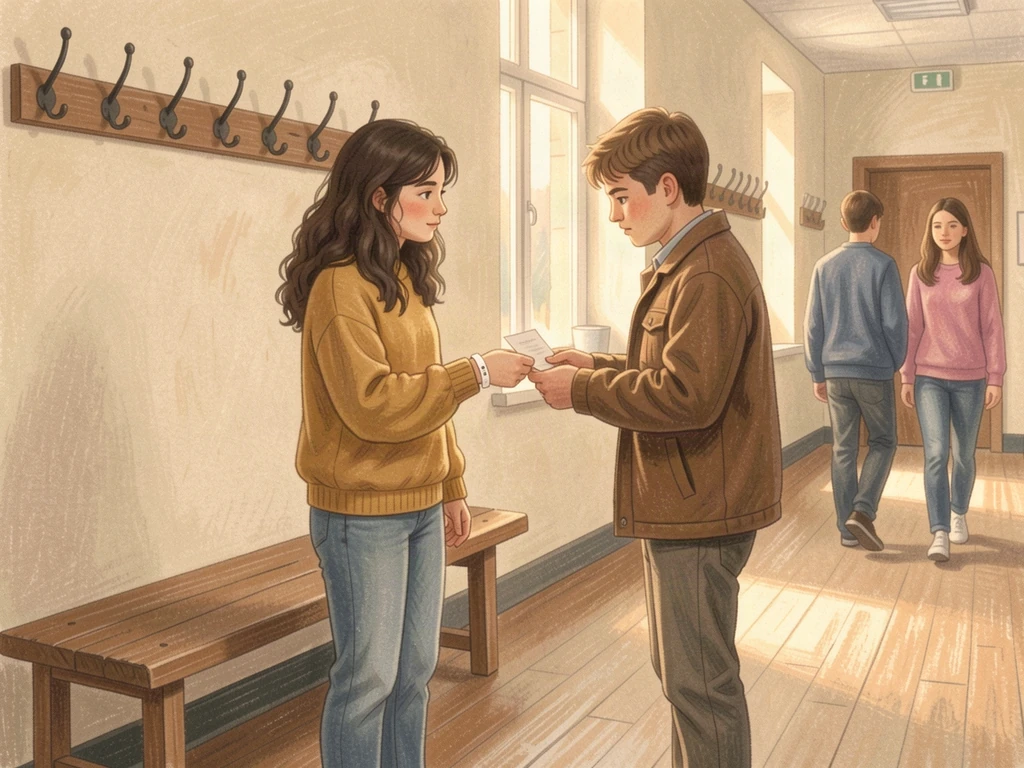
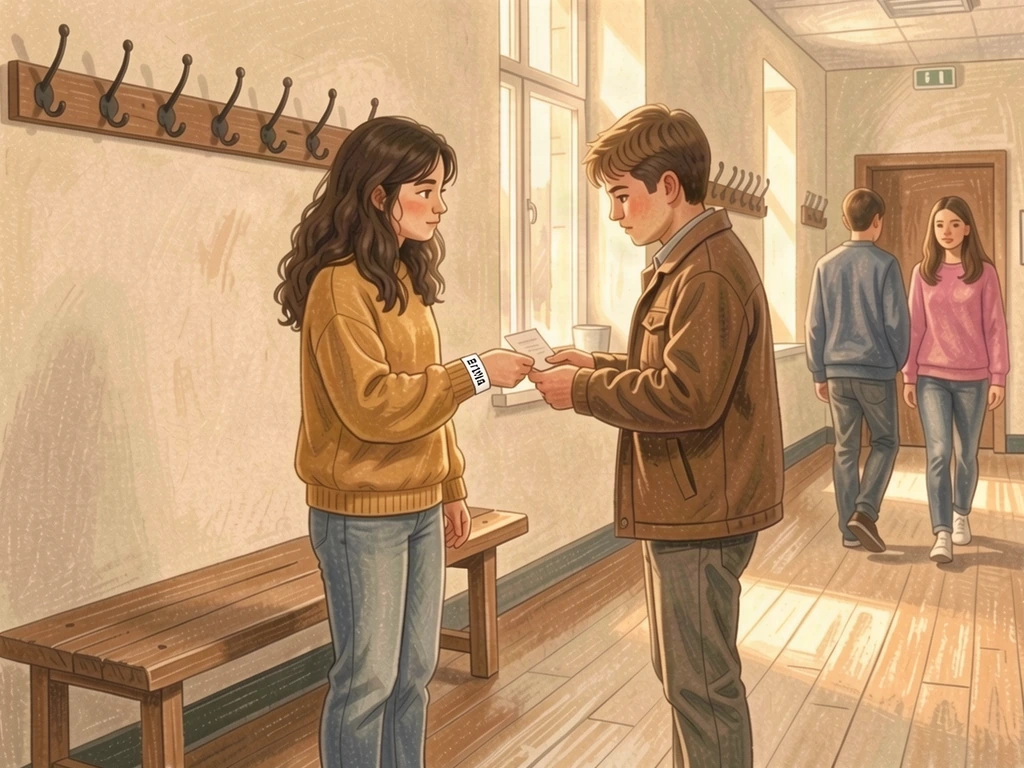
beta3: stage5 girl is young Elena, wristband printed ELENA

diff --git a/beta/index.html b/beta/index.html
@@ -154,7 +154,7 @@ const D={stages:[
   o:{sk:'…mení sa jej pulz. Zavolajte rodinu.',en:'…her pulse is changing. Call the family.'},
   in:{sk:'Chodba bola dlhá a on sa tváril, že ide okolo. V ruke zložený papierik.',en:'The corridor was long and he pretended to walk past. A folded note in his hand.'},
   out:{sk:'Napísal, čo sa nikdy neodvážil povedať nahlas. Ten list som si nechala dvadsať rokov.',en:'He wrote what he never dared to say aloud. I kept that letter for twenty years.'},
-  h:{x:49,y:49,r:5,n:{sk:'Nemocničný náramok',en:'A hospital wristband'},w:{sk:'Na zápästí dievčaťa je tenký biely náramok z izby 214.',en:'On the girl’s wrist there is a thin white band from room 214.'}}},
+  h:{x:47.5,y:47.3,r:6,n:{sk:'Náramok s menom ELENA',en:'A band with the name ELENA'},w:{sk:'Na zápästí má tenký biely náramok s vytlačeným menom: ELENA. Taký, aký dávajú v nemocnici.',en:'On her wrist there is a thin white band printed with the name ELENA. The kind a hospital gives you.'}}},
  {img:'assets/s06.webp',t:{sk:'Odchod z domu',en:'Leaving Home'},
   o:{sk:'„Ema zaspala na dvoch stoličkách pri dverách.“',en:'“Ema fell asleep on two chairs by the door.”'},
   in:{sk:'Prázdny byt, krabice, nový začiatok.',en:'An empty flat, boxes, a new beginning.'},
